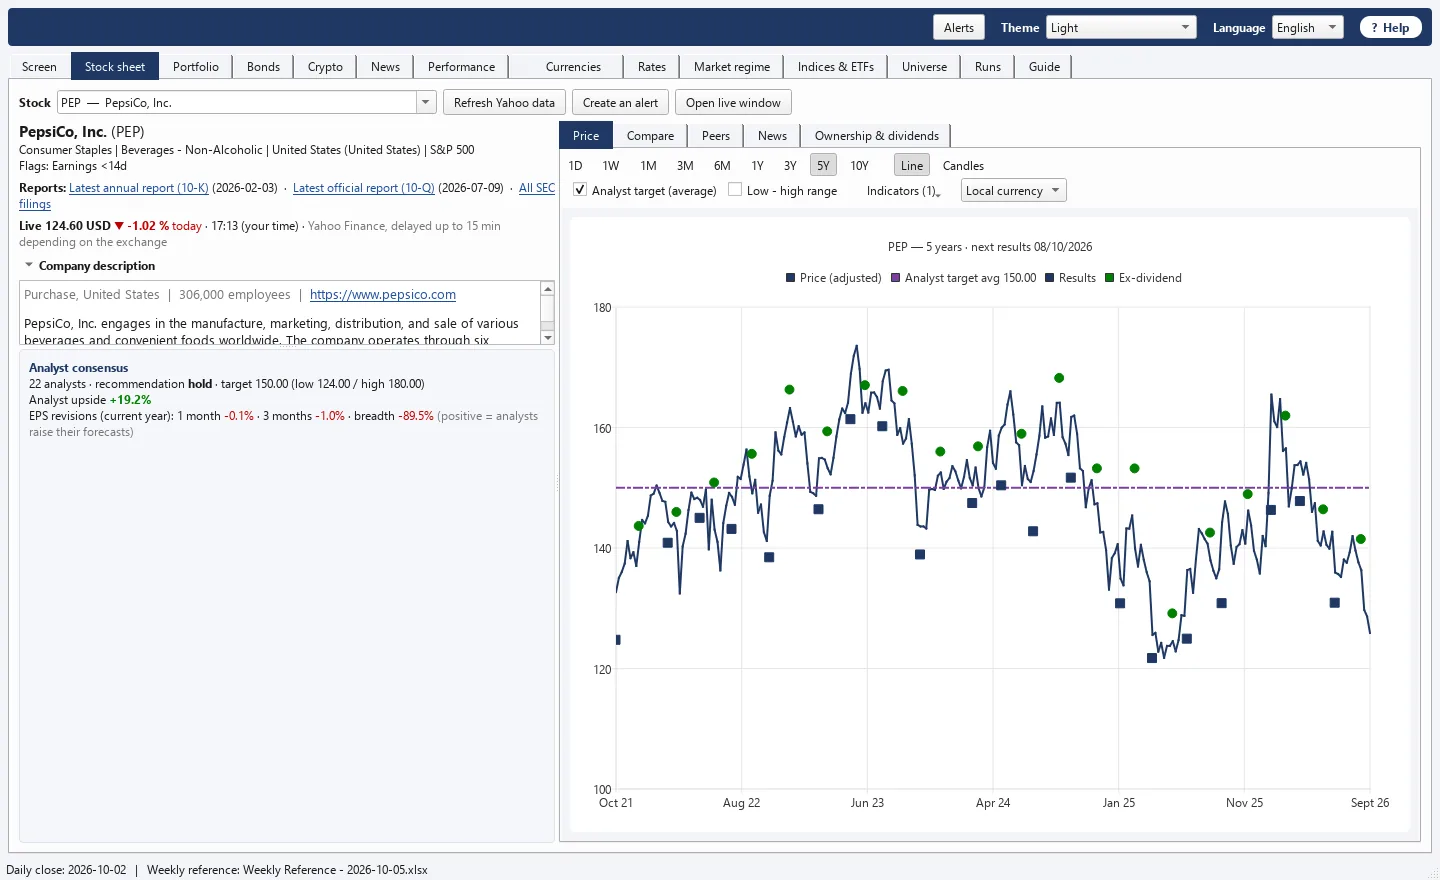
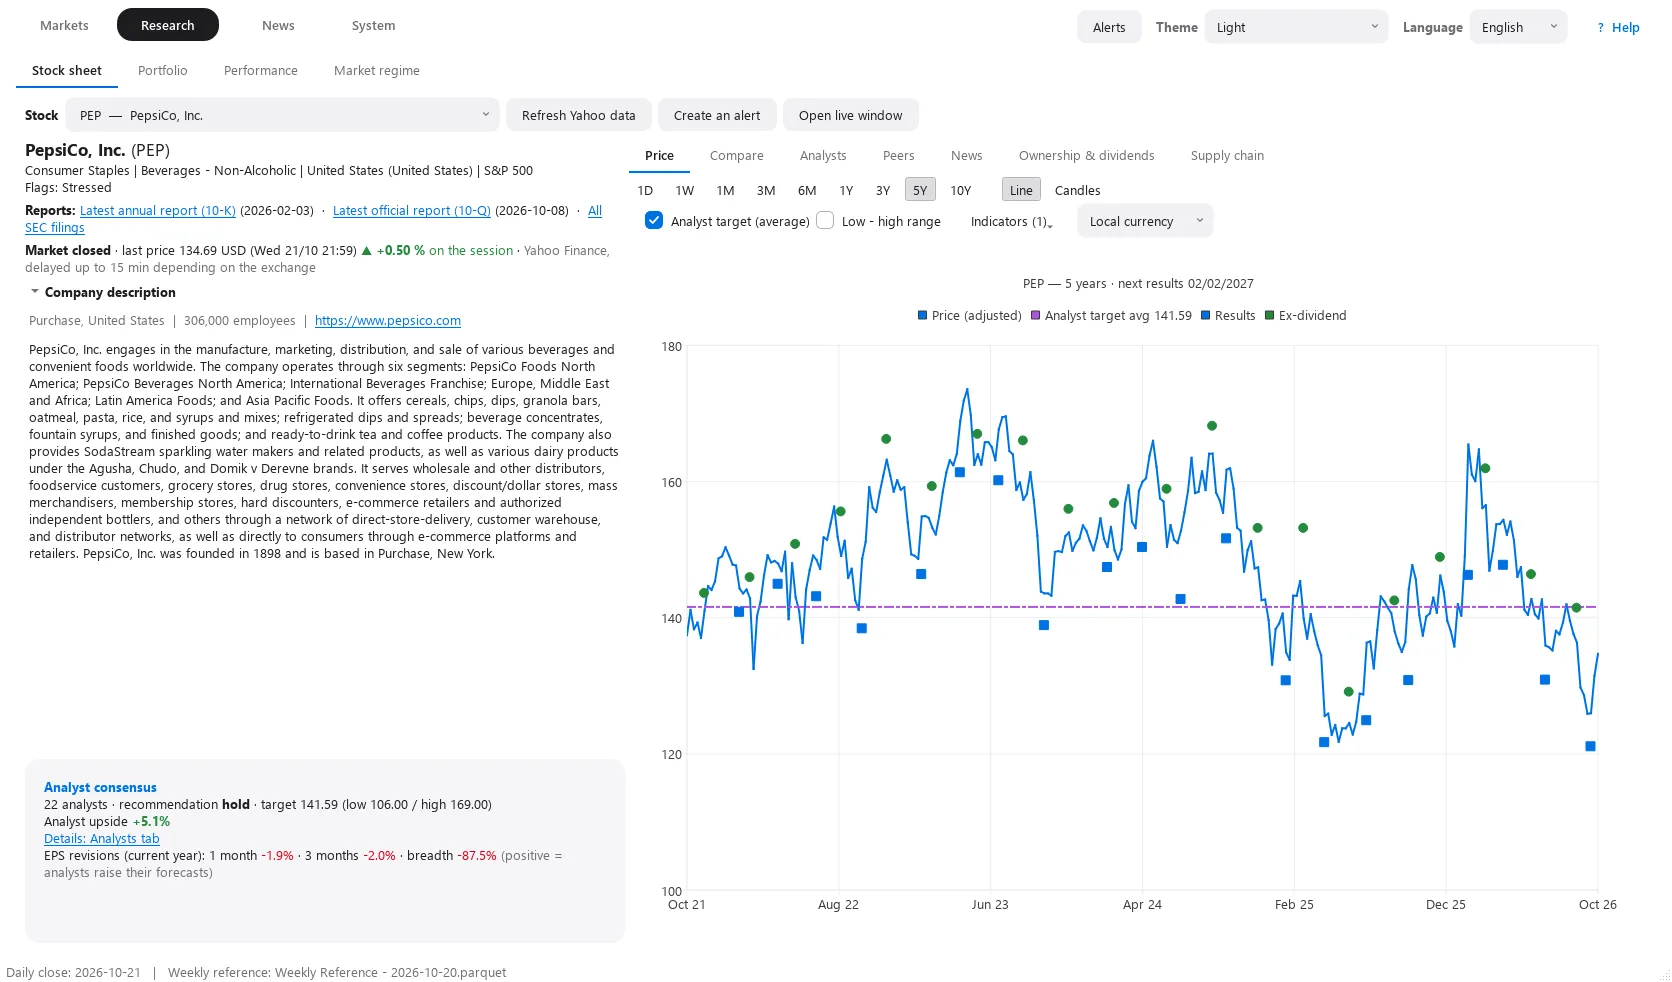
Stock sheet back as opening screenshot, with a readable description
New captures of the PepsiCo stock sheet (EN/FR, light and Maison Barra
dark) taken after the app gives the company description the free height
in the live edition. Portfolio performance goes back to the first tab of
the tour.

diff --git a/index.html b/index.html
@@ -21,7 +21,7 @@
 <link rel="preconnect" href="https://fonts.googleapis.com">
 <link rel="preconnect" href="https://fonts.gstatic.com" crossorigin>
 <link href="https://fonts.googleapis.com/css2?family=Inter:opsz,wght@14..32,400..700&display=swap" rel="stylesheet">
-<link rel="stylesheet" href="style.css?v=2026-10-22b">
+<link rel="stylesheet" href="style.css?v=2026-10-22c">
 <script>
   // avant l'affichage : langue et theme memorises (sinon ceux du navigateur), pour eviter un flash
   (function () {
@@ -85,10 +85,10 @@
 
   <figure class="hero-shot">
     <div class="glow" aria-hidden="true"></div>
-    <button type="button" class="shot-btn" data-zoom="05_performance">
-      <img data-shot="05_performance" src="images/05_performance.webp" width="1440" height="880" alt="Performance tab: an example portfolio against the MSCI World, with time-weighted return, volatility, drawdown, Sharpe ratio, tracking error and value at risk" fetchpriority="high">
+    <button type="button" class="shot-btn" data-zoom="02_stock_sheet">
+      <img data-shot="02_stock_sheet" src="images/02_stock_sheet.webp" width="1672" height="982" alt="Stock sheet of PepsiCo: company description, links to the latest 10-K and 10-Q, analyst consensus and earnings revisions, and a five-year price chart with the analyst target, results and ex-dividend dates" fetchpriority="high">
     </button>
-    <figcaption class="cap"><span data-l="en">An example portfolio against the MSCI World: time-weighted return, attribution and risk statistics. Fictitious transactions, real market prices.</span><span data-l="fr">Un portefeuille d'exemple face au MSCI World&nbsp;: rendement pondéré par le temps, attribution et statistiques de risque. Transactions fictives, cours de marché réels.</span></figcaption>
+    <figcaption class="cap"><span data-l="en">The stock sheet of PepsiCo: company profile, latest 10-K and 10-Q one click away, analyst consensus, earnings revisions and the price chart.</span><span data-l="fr">La fiche titre de PepsiCo&nbsp;: profil de la société, derniers 10-K et 10-Q à un clic, consensus des analystes, révisions de bénéfices et graphique de cours.</span></figcaption>
   </figure>
 
   <aside class="facts" aria-labelledby="facts-h">
@@ -144,7 +144,7 @@
 
   <div class="window">
     <div class="tabs" role="tablist" aria-label="Tabs">
-      <button type="button" role="tab" id="t-sheet" aria-controls="p-sheet" aria-selected="true"><span data-l="en">Stock sheet</span><span data-l="fr">Fiche titre</span></button>
+      <button type="button" role="tab" id="t-perf" aria-controls="p-perf" aria-selected="true"><span data-l="en">Portfolio</span><span data-l="fr">Portefeuille</span></button>
       <button type="button" role="tab" id="t-screen" aria-controls="p-screen" aria-selected="false" tabindex="-1"><span data-l="en">Screener</span><span data-l="fr">Screener</span></button>
       <button type="button" role="tab" id="t-compare" aria-controls="p-compare" aria-selected="false" tabindex="-1"><span data-l="en">Compare</span><span data-l="fr">Comparer</span></button>
       <button type="button" role="tab" id="t-rates" aria-controls="p-rates" aria-selected="false" tabindex="-1"><span data-l="en">Rates</span><span data-l="fr">Taux</span></button>
@@ -153,13 +153,13 @@
       <button type="button" role="tab" id="t-runs" aria-controls="p-runs" aria-selected="false" tabindex="-1"><span data-l="en">Runs</span><span data-l="fr">Runs</span></button>
     </div>
 
-    <div class="panel" role="tabpanel" id="p-sheet" aria-labelledby="t-sheet">
+    <div class="panel" role="tabpanel" id="p-perf" aria-labelledby="t-perf">
       <div class="panel-text">
-        <h3><span data-l="en">Every company's sheet, and its official reports</span><span data-l="fr">La fiche de chaque société, et ses rapports officiels</span></h3>
-        <p><span data-l="en">Price chart with results and dividend dates, the analyst consensus (number of analysts, recommendation, low, average and high target) and the revisions of earnings forecasts over one and three months.</span><span data-l="fr">Graphique de cours avec dates de résultats et de dividendes, consensus des analystes (nombre, recommandation, objectif bas, moyen et haut) et révisions des prévisions de bénéfices sur un et trois mois.</span></p>
-        <p class="aside"><span data-l="en">A Reports line opens the latest 10-K (or 20-F), the latest filing of any kind, or the investor relations page for companies outside the SEC.</span><span data-l="fr">Une ligne Rapports ouvre le dernier 10-K (ou 20-F), le dernier dépôt quel qu'il soit, ou la page relations investisseurs des sociétés hors SEC.</span></p>
+        <h3><span data-l="en">Portfolio return and risk</span><span data-l="fr">Performance et risque d'un portefeuille</span></h3>
+        <p><span data-l="en">Rebuilt from the transactions kept in Excel: time-weighted return, dividends net of withholding tax by country, comparison with a benchmark, attribution by sector, volatility, drawdown, Sharpe ratio, tracking error and value at risk.</span><span data-l="fr">Reconstruit à partir des transactions tenues dans Excel&nbsp;: rendement pondéré par le temps, dividendes nets de retenue à la source par pays, comparaison à un indice, attribution sectorielle, volatilité, perte maximale, ratio de Sharpe, tracking error et valeur à risque.</span></p>
+        <p class="aside"><span data-l="en">The screenshot shows an example portfolio: fictitious transactions, real market prices.</span><span data-l="fr">La capture montre un portefeuille d'exemple&nbsp;: transactions fictives, cours de marché réels.</span></p>
       </div>
-      <button type="button" class="shot-btn" data-zoom="02_stock_sheet"><img data-shot="02_stock_sheet" src="images/02_stock_sheet.webp" width="1440" height="880" loading="lazy" alt="Stock sheet of PepsiCo: links to the latest 10-K and 10-Q, analyst consensus and a five-year price chart"></button>
+      <button type="button" class="shot-btn" data-zoom="05_performance"><img data-shot="05_performance" src="images/05_performance.webp" width="1440" height="880" loading="lazy" alt="Performance tab: an example portfolio against the MSCI World, with a table of return and risk statistics"></button>
     </div>
 
     <div class="panel" role="tabpanel" id="p-screen" aria-labelledby="t-screen">
@@ -300,6 +300,6 @@
   <img alt="">
 </dialog>
 
-<script src="site.js?v=2026-10-22b" defer></script>
+<script src="site.js?v=2026-10-22c" defer></script>
 </body>
 </html>
